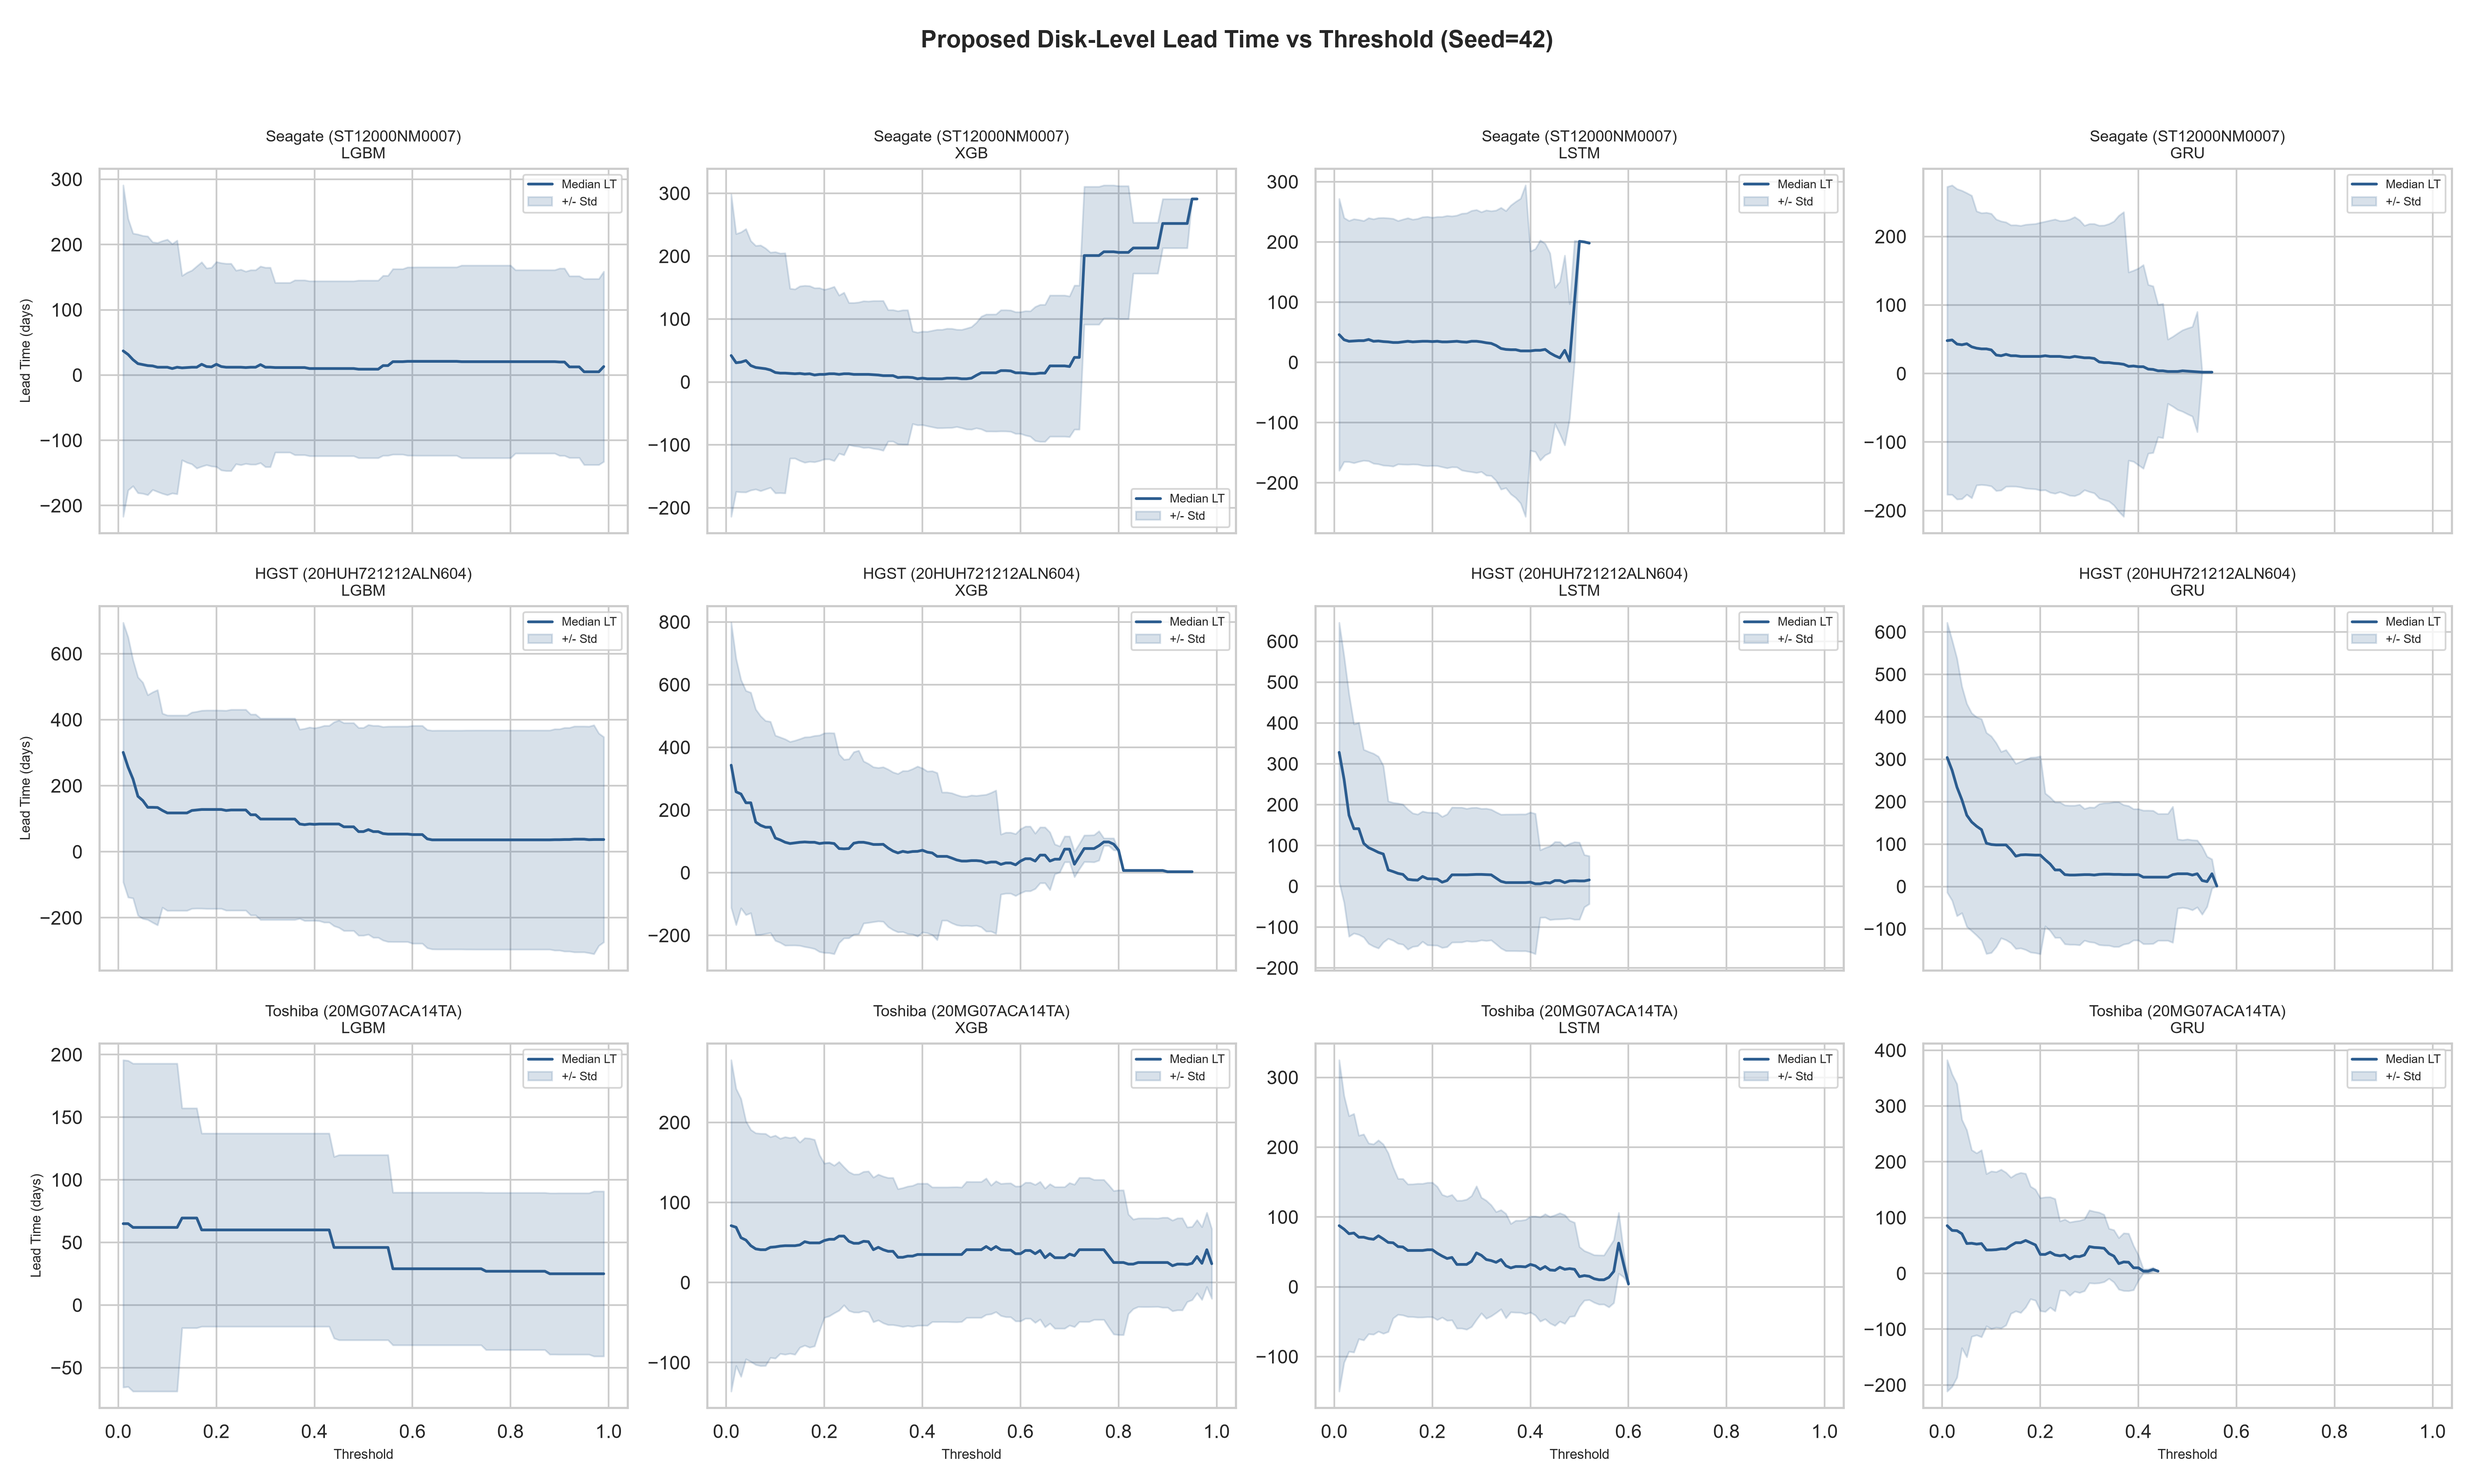
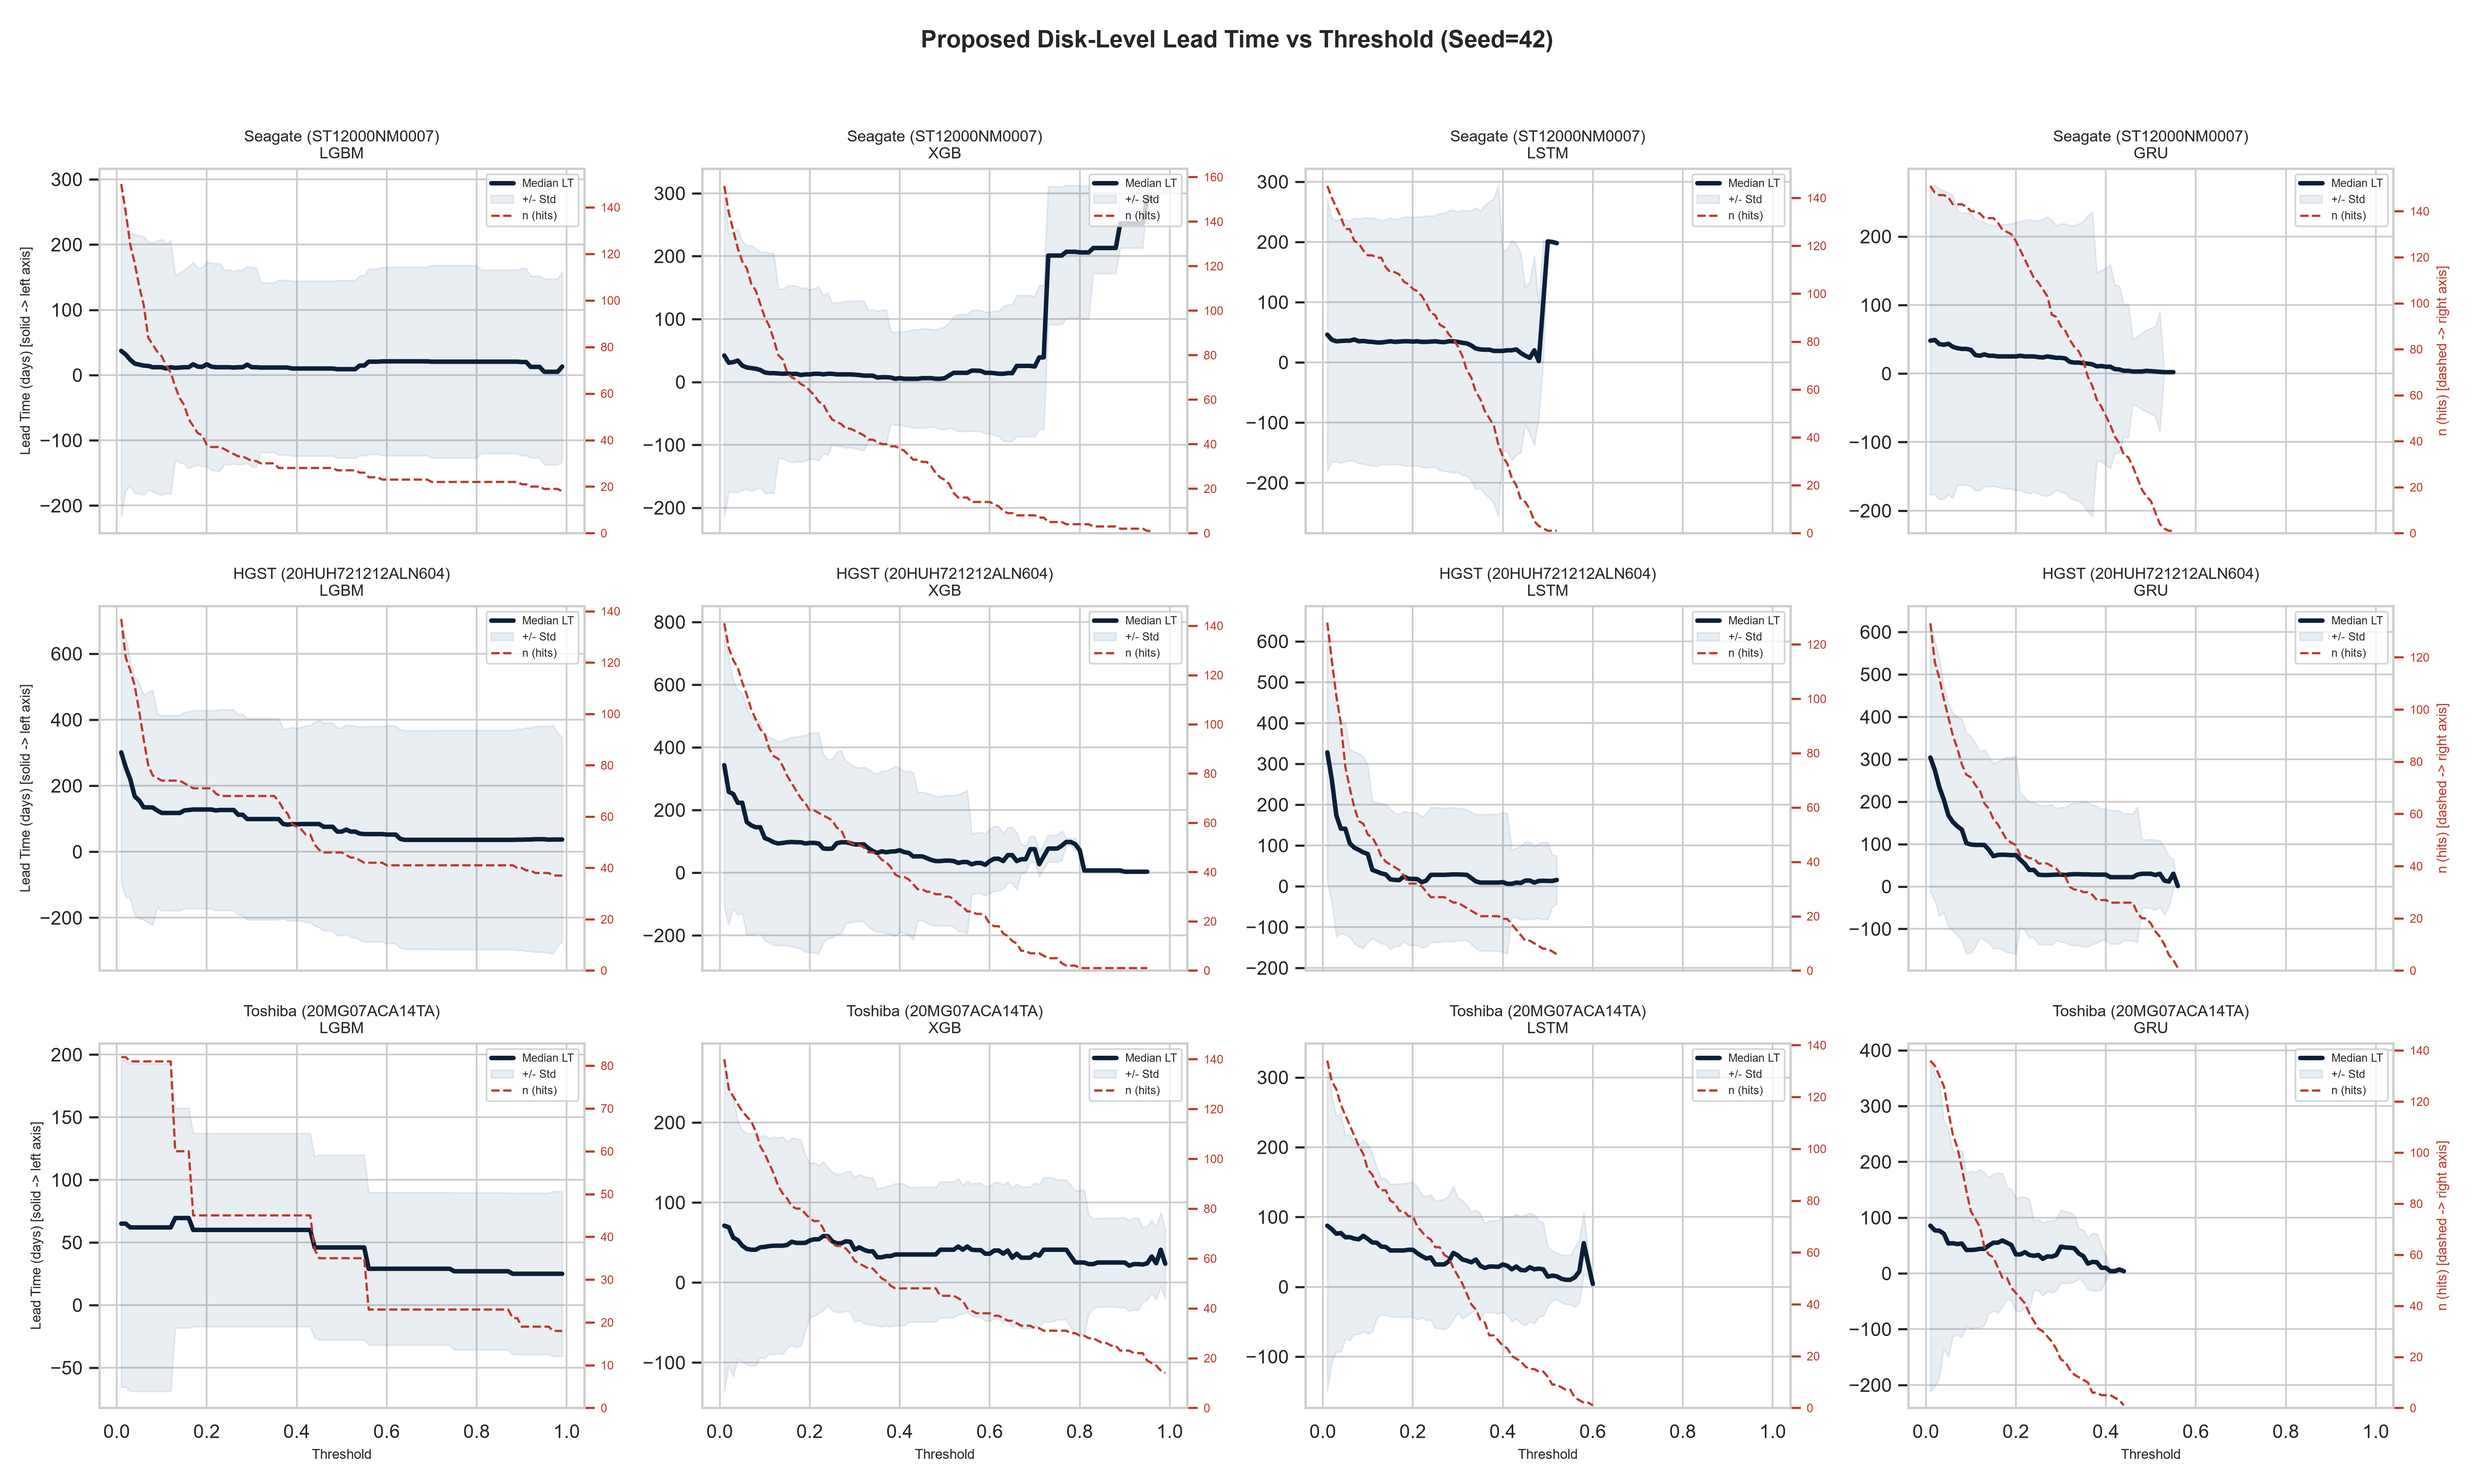
집에가자

diff --git a/analysis/lead_time_analysis/run_far_recall_sweep.py b/analysis/lead_time_analysis/run_far_recall_sweep.py
@@ -1,0 +1,165 @@
+"""
+Plots the Proposed Disk-Level Recall vs False Alarm Rate (FAR) trade-off curve for
+each (dataset, model) combination, i.e. how recall degrades as the FAR budget is
+tightened by raising the threshold.
+
+Reuses the per-threshold sweep CSVs produced by run_threshold_leadtime_sweep.py
+(threshold, recall, far, hits, ...) when available; otherwise runs the sweep itself
+by importing the shared inference/sweep functions from that module.
+
+The operating point actually used in master_proposed_threshold_results.csv (the
+threshold chosen under the FAR <= config.MAX_FAR constraint) is marked on each curve
+for reference.
+"""
+import os
+import sys
+import argparse
+import numpy as np
+import pandas as pd
+import matplotlib.pyplot as plt
+import seaborn as sns
+
+PROJECT_ROOT = os.path.dirname(os.path.dirname(os.path.dirname(os.path.abspath(__file__))))
+EXPERIMENTS_DIR = os.path.join(PROJECT_ROOT, "experiments")
+if EXPERIMENTS_DIR not in sys.path:
+    sys.path.insert(0, EXPERIMENTS_DIR)
+ANALYSIS_DIR = os.path.dirname(os.path.abspath(__file__))
+if ANALYSIS_DIR not in sys.path:
+    sys.path.insert(0, ANALYSIS_DIR)
+
+import config
+from run_threshold_leadtime_sweep import (
+    DATASETS, MODELS, MANUFACTURER_MAP, get_raw_preds, sweep_thresholds
+)
+
+
+def _read_master_csv(path: str) -> pd.DataFrame:
+    """Robustly reads the master results CSV: normally utf-8-sig/comma, but can end
+    up as cp949/tab-delimited after being opened and re-saved in Excel."""
+    for encoding in ('utf-8-sig', 'cp949'):
+        for sep in (',', '\t'):
+            try:
+                df = pd.read_csv(path, encoding=encoding, sep=sep)
+                if df.shape[1] > 1:
+                    return df
+            except (UnicodeDecodeError, pd.errors.ParserError):
+                continue
+    raise ValueError(f"Could not parse master CSV with known encodings/separators: {path}")
+
+
+def load_operating_points(seed: int) -> dict:
+    """Reads (dataset, model) -> chosen threshold from master_proposed_threshold_results.csv."""
+    master_csv = os.path.join(PROJECT_ROOT, "results", "master_proposed_threshold_results.csv")
+    op_map = {}
+    if not os.path.exists(master_csv):
+        return op_map
+    df = _read_master_csv(master_csv)
+    df = df[df['Seed'].astype(int) == seed]
+    for _, row in df.iterrows():
+        op_map[(str(row['데이터']).strip(), str(row['Model']).upper())] = float(row['Threshold (Proposed-Opt)'])
+    return op_map
+
+
+def get_sweep_df(dataset: str, model_name: str, seed: int, step: float, results_dir: str) -> pd.DataFrame:
+    csv_path = os.path.join(results_dir, f"seed{seed}_threshold_sweep_{dataset}_{model_name.upper()}.csv")
+    if os.path.exists(csv_path):
+        return pd.read_csv(csv_path, encoding='utf-8-sig')
+
+    print(f"[Cache Miss] No existing sweep CSV for {dataset}/{model_name.upper()} -> running inference...")
+    thresholds = np.round(np.arange(0.01, 1.00, step), 4)
+    evaluator, raw_preds = get_raw_preds(dataset, model_name, seed)
+    sweep_df = sweep_thresholds(evaluator, raw_preds, thresholds)
+    sweep_df.to_csv(csv_path, index=False, encoding='utf-8-sig')
+    return sweep_df
+
+
+def plot_facet_grid(all_sweeps: dict, op_points: dict, results_dir: str, seed: int, max_far: float):
+    sns.set_theme(style="whitegrid")
+    fig, axes = plt.subplots(len(DATASETS), len(MODELS), figsize=(20, 12), sharex=False, sharey=True)
+
+    # Shared x-axis limit across every panel so the FAR<=constraint line lands at the
+    # same horizontal position everywhere (panels are visually comparable at a glance).
+    # Fixed at 5%; curves simply run off the right edge of panels whose FAR range
+    # exceeds it (e.g. HGST reaches ~15% for some models).
+    shared_x_max = 5.0
+
+    for i, dataset in enumerate(DATASETS):
+        for j, model_name in enumerate(MODELS):
+            key = (dataset, model_name.upper())
+            df = all_sweeps[key].sort_values('far')
+            mfr = MANUFACTURER_MAP.get(dataset, dataset)
+            ax = axes[i, j]
+
+            far_pct = df['far'].values * 100
+            recall_pct = df['recall'].values * 100
+
+            ax.plot(far_pct, recall_pct, color="#0a1f38", linewidth=2.2, alpha=0.9, label="Recall vs FAR")
+
+            ax.axvline(max_far * 100, color="#c0392b", linestyle="--", linewidth=1.3,
+                        label=f"FAR <= {max_far*100:.0f}% constraint")
+
+            op_thresh = op_points.get(key)
+            if op_thresh is not None:
+                row = df.iloc[(df['threshold'] - op_thresh).abs().argsort()[:1]]
+                if len(row) > 0:
+                    ax.scatter(row['far'].values * 100, row['recall'].values * 100,
+                               color="#c0392b", s=55, zorder=5, edgecolor='black', linewidth=0.6,
+                               label=f"Selected thr={op_thresh:.2f}")
+
+            # FAR is a ratio and can never be negative; anchor the axis at 0 instead of
+            # letting matplotlib's default margin push it into negative territory.
+            ax.set_xlim(0, shared_x_max)
+            ax.set_ylim(0, 100)
+            ax.margins(x=0)
+
+            ax.set_title(f"{mfr}\n{model_name.upper()}", fontsize=9)
+            if i == len(DATASETS) - 1:
+                ax.set_xlabel("FAR (%)", fontsize=8)
+            if j == 0:
+                ax.set_ylabel("Recall (%)", fontsize=8)
+            ax.legend(fontsize=6, loc="lower right")
+
+    fig.suptitle(f"Proposed Disk-Level Recall vs False Alarm Rate (Seed={seed})", fontsize=14, fontweight="bold")
+    fig.tight_layout(rect=[0, 0, 1, 0.96])
+    out_path = os.path.join(results_dir, f"seed{seed}_recall_vs_far_grid.png")
+    fig.savefig(out_path, dpi=300)
+    plt.close(fig)
+    print(f"[Plot Saved] -> {out_path}")
+    return out_path
+
+
+def main():
+    parser = argparse.ArgumentParser(description="Recall vs FAR trade-off curve per (dataset, model)")
+    parser.add_argument('--seed', type=int, default=config.SEED, help='Seed to evaluate (must have a saved checkpoint)')
+    parser.add_argument('--datasets', type=str, nargs='+', default=DATASETS)
+    parser.add_argument('--models', type=str, nargs='+', default=MODELS)
+    parser.add_argument('--step', type=float, default=0.01, help='Threshold step size (only used if no cached sweep CSV exists)')
+    args = parser.parse_args()
+
+    results_dir = os.path.join(PROJECT_ROOT, "analysis", "lead_time_analysis")
+    os.makedirs(results_dir, exist_ok=True)
+
+    max_far = getattr(config, 'MAX_FAR', 0.01)
+
+    print("=" * 80)
+    print(f" RECALL vs FAR SWEEP (SEED={args.seed})")
+    print(f" Datasets : {args.datasets}")
+    print(f" Models   : {args.models}")
+    print(f" MAX_FAR constraint (from config): {max_far*100:.1f}%")
+    print("=" * 80)
+
+    op_points = load_operating_points(args.seed)
+
+    all_sweeps = {}
+    for dataset in args.datasets:
+        for model_name in args.models:
+            print(f"\n[Processing] {dataset} | {model_name.upper()}")
+            sweep_df = get_sweep_df(dataset, model_name, args.seed, args.step, results_dir)
+            all_sweeps[(dataset, model_name.upper())] = sweep_df
+
+    plot_facet_grid(all_sweeps, op_points, results_dir, args.seed, max_far)
+    print("\nDone.")
+
+
+if __name__ == "__main__":
+    main()

diff --git a/analysis/lead_time_analysis/run_threshold_leadtime_sweep.py b/analysis/lead_time_analysis/run_threshold_leadtime_sweep.py
@@ -108,19 +108,35 @@ def plot_facet_grid(all_sweeps: dict, results_dir: str, seed: int):
             valid = df.dropna(subset=['median_lead_time'])
             valid = valid[valid['hits'] > 0]
             if len(valid) > 0:
-                ax.plot(valid['threshold'], valid['median_lead_time'], color="#2b5c8f", linewidth=1.6, label="Median LT")
+                x = valid['threshold'].values
+                y = valid['median_lead_time'].values
+                n = valid['hits'].values.astype(float)
+
+                ax.plot(x, y, color="#0a1f38", linewidth=2.6, alpha=1.0, label="Median LT", zorder=3)
+
                 ax.fill_between(
-                    valid['threshold'],
-                    valid['median_lead_time'] - valid['std_lead_time'],
-                    valid['median_lead_time'] + valid['std_lead_time'],
-                    color="#2b5c8f", alpha=0.18, label="+/- Std"
+                    x, y - valid['std_lead_time'].values, y + valid['std_lead_time'].values,
+                    color="#2b5c8f", alpha=0.10, label="+/- Std", zorder=1
                 )
-                ax.legend(fontsize=7)
+
+                # Secondary axis: n (hit count) backing each threshold, so low-n
+                # (statistically unreliable) stretches are visible rather than implied.
+                ax2 = ax.twinx()
+                ax2.plot(x, n, color="#c0392b", linestyle="--", linewidth=1.3, alpha=1.0, label="n (hits)", zorder=2)
+                ax2.set_ylim(bottom=0)
+                ax2.grid(False)
+                ax2.tick_params(axis='y', labelsize=7, colors="#c0392b")
+                if j == len(MODELS) - 1:
+                    ax2.set_ylabel("n (hits) [dashed -> right axis]", fontsize=8, color="#c0392b")
+
+                lines1, labels1 = ax.get_legend_handles_labels()
+                lines2, labels2 = ax2.get_legend_handles_labels()
+                ax.legend(lines1 + lines2, labels1 + labels2, fontsize=6.5, loc="upper right")
             ax.set_title(f"{mfr}\n{model_name.upper()}", fontsize=9)
             if i == len(DATASETS) - 1:
                 ax.set_xlabel("Threshold", fontsize=8)
             if j == 0:
-                ax.set_ylabel("Lead Time (days)", fontsize=8)
+                ax.set_ylabel("Lead Time (days) [solid -> left axis]", fontsize=8)
 
     fig.suptitle(f"Proposed Disk-Level Lead Time vs Threshold (Seed={seed})", fontsize=14, fontweight="bold")
     fig.tight_layout(rect=[0, 0, 1, 0.96])

diff --git a/experiments/models/lgbm.py b/experiments/models/lgbm.py
@@ -8,7 +8,13 @@ HYPERPARAMS = {
     'num_leaves': 31,
     'verbose': -1,
     'objective': 'binary',
-    'metric': 'binary_logloss',
+    # Early-stopping monitor only (does NOT change the training loss, which stays
+    # binary cross-entropy via 'objective' above). Under severe class imbalance,
+    # binary_logloss plateaus almost immediately because predicting near the prior
+    # already near-minimizes it, triggering early stopping long before the model
+    # has actually learned to separate the minority class. average_precision tracks
+    # minority-class ranking directly, so it doesn't false-plateau the same way.
+    'metric': 'average_precision',
     'min_data_in_leaf': 100,
     'num_boost_round': 300,
     'early_stopping_rounds': 20

diff --git a/experiments/models/xgb.py b/experiments/models/xgb.py
@@ -11,7 +11,11 @@ HYPERPARAMS = {
     "subsample": 0.9,
     "colsample_bytree": 0.9,
     "tree_method": 'hist',
-    "eval_metric": 'logloss',
+    # Early-stopping monitor only (objective stays binary cross-entropy/logistic
+    # internally). 'aucpr' tracks minority-class ranking directly, so it won't
+    # false-plateau under severe imbalance the way 'logloss' can. See lgbm.py for
+    # the matching change and rationale.
+    "eval_metric": 'aucpr',
     "early_stopping_rounds": 20
 }
 
